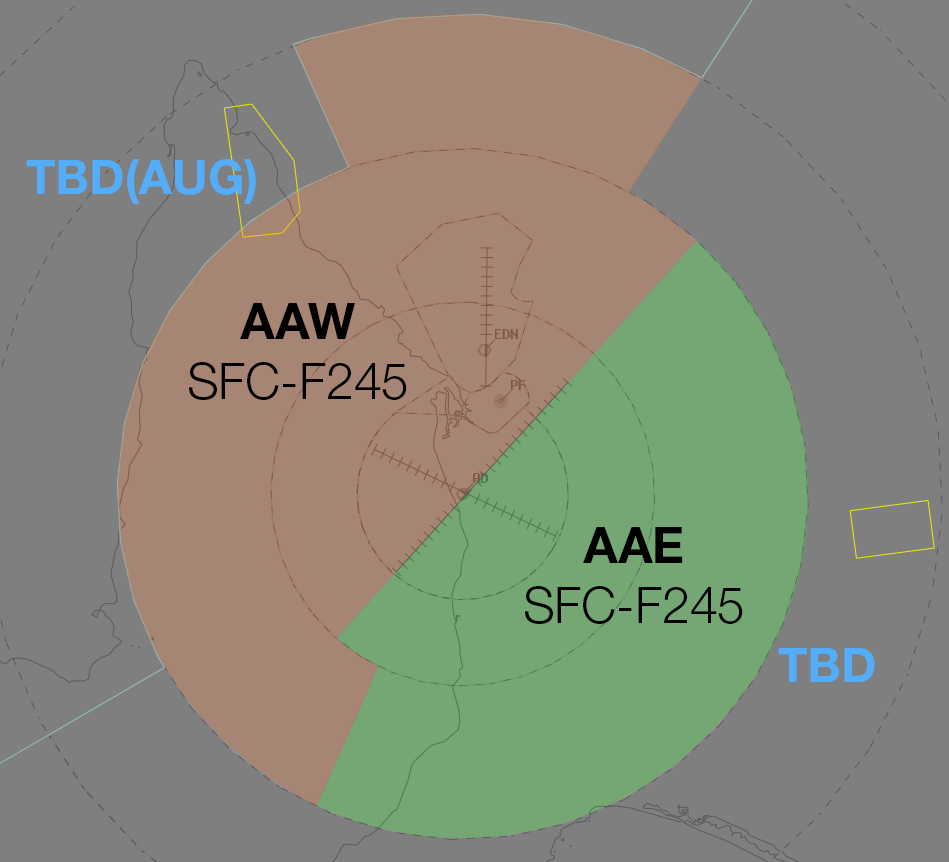
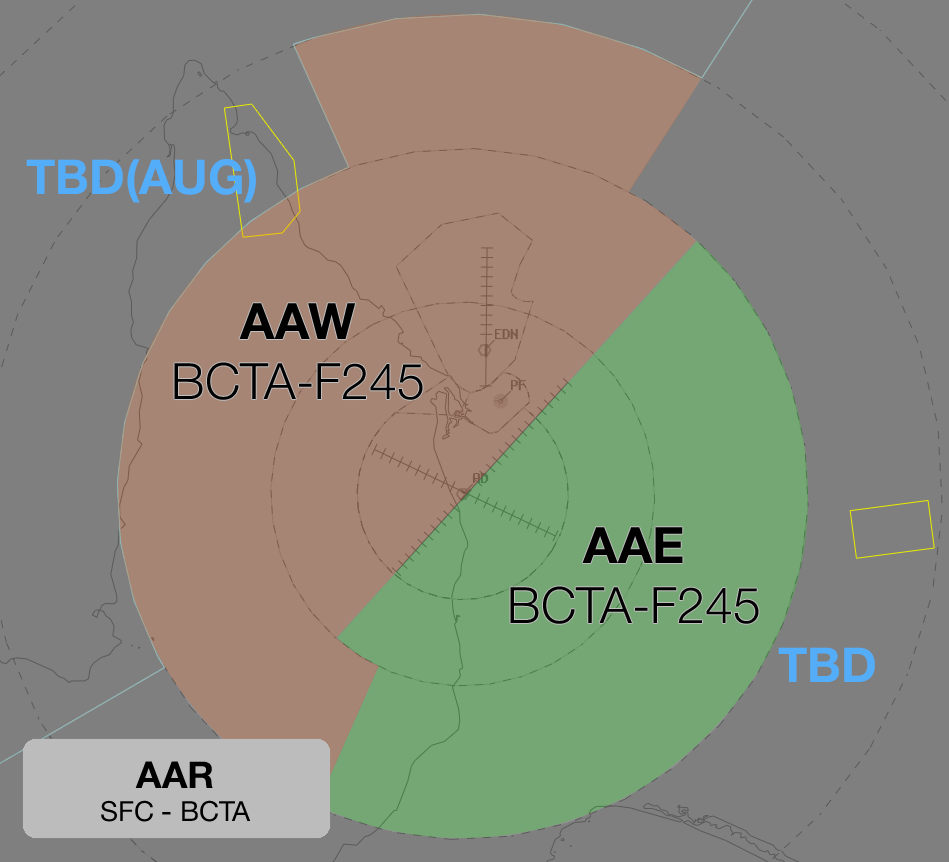
Radar positions

diff --git a/docs/terminal/sydney.md b/docs/terminal/sydney.md
@@ -14,14 +14,12 @@
 | <span class="indented">Sydney Departures North :material-information-outline:{ title="Non-standard position"}   | SDN | Sydney Departures | 123.000 | SY-N_DEP |
 | <span class="indented">Sydney Director West :material-information-outline:{ title="Non-standard position"}      | SFW | Sydney Director   | 126.100 | SY-D_APP |
 | <span class="indented">Sydney Director East :material-information-outline:{ title="Non-standard position"}      | SFE | Sydney Director   | 125.300 | SY-DE_APP|
-| <span class="indented">Sydney Radar :material-information-outline:{ title="Non-standard position"} :octicons-checklist-24:{ title="Non-standard position"} | SRI | Sydney Centre  | 124.550 | SY-C_DEP |
-| <span class="indented">Sydney Flow :material-information-outline:{ title="Non-standard position"}               | SFL |                   |          | SY_FMP  |
+| <span class="indented">Sydney Radar :material-information-outline:{ title="Non-standard position"}              | SRI | Sydney Centre     | 124.550 | SY-R_DEP |
+| <span class="indented">Sydney Flow :material-information-outline:{ title="Non-standard position"}               | SFL |                   |         | SY_FMP   |
 
 !!! abstract "Non-Standard Positions"
     :material-information-outline: Non-standard positions may only be used in accordance with [VATPAC Air Traffic Services Policy](https://vatpac.org/publications/policies){target=new}.  
     Approval must be sought from the **bolded parent position** prior to opening a Non-Standard Position, unless [NOTAMs](https://vatpac.org/publications/notam){target=new} indicate otherwise (eg, for events).
-
-    :octicons-checklist-24: [Additional requirements](#airspace-structural-arrangements) must be met prior to opening SRI as a stand-alone position.
 
 ## Airspace
 The Vertical limits of the SY TCU are `SFC` to `F285`.  

diff --git a/docs/terminal/adelaide.md b/docs/terminal/adelaide.md
@@ -9,8 +9,9 @@
 | Name                          | ID      | Callsign                | Frequency   | Login ID      |
 | ----------------------------- | ------- | ----------------------- | ----------- | ------------- |
 | **Adelaide Approach East**    | **AAE** | **Adelaide Approach**   | **118.200** | **AD_APP**    |
-| <span class="indented">Adelaide Approach West :material-information-outline:{ title="Non-standard position"}  | AAW | Adelaide Approach  | 124.200  | AD-W_APP |
-| <span class="indented">Adelaide Flow :material-information-outline:{ title="Non-standard position"}           | AFL |                    |          | AD_FMP   |
+| <span class="indented">Adelaide Approach West :material-information-outline:{ title="Non-standard position"}  | AAW | Adelaide Approach  | 124.200 | AD-W_APP |
+| <span class="indented">Adelaide Radar :material-information-outline:{ title="Non-standard position"}          | AAR | Adelaide Approach  | 130.450 | AD-R_DEP |
+| <span class="indented">Adelaide Flow :material-information-outline:{ title="Non-standard position"}           | AFL |                    |         | AD_FMP   |
 
 !!! abstract "Non-Standard Positions"
     :material-information-outline: Non-standard positions may only be used in accordance with [VATPAC Air Traffic Services Policy](https://vatpac.org/publications/policies){target=new}.  

diff --git a/docs/terminal/perth.md b/docs/terminal/perth.md
@@ -7,8 +7,9 @@
 | Name                          | ID      | Callsign                | Frequency   | Login ID      |
 | ----------------------------- | ------- | ----------------------- | ----------- | ------------- |
 | **Perth Approach**            | **PHA** | **Perth Approach**      | **123.600** | **PH_APP**    | 
-| <span class="indented">Perth Departures :material-information-outline:{ title="Non-standard position"}  | PHD | Perth Departures | 118.700 | PH_DEP |
-| <span class="indented">Perth Flow :material-information-outline:{ title="Non-standard position"}        | PFL |                  |         | PH_FMP |
+| <span class="indented">Perth Departures :material-information-outline:{ title="Non-standard position"}  | PHD | Perth Departures | 118.700 | PH_DEP   |
+| <span class="indented">Perth Radar :material-information-outline:{ title="Non-standard position"}       | PHR | Perth Centre     | 135.250 | PH-R_DEP |
+| <span class="indented">Perth Flow :material-information-outline:{ title="Non-standard position"}        | PFL |                  |         | PH_FMP   |
 
 !!! abstract "Non-Standard Positions"
     :material-information-outline: Non-standard positions may only be used in accordance with [VATPAC Air Traffic Services Policy](https://vatpac.org/publications/policies){target=new}.  

diff --git a/docs/terminal/brisbane.md b/docs/terminal/brisbane.md
@@ -13,6 +13,7 @@
 | <span class="indented">Brisbane Departures North :material-information-outline:{ title="Non-standard position"} | BDN | Brisbane Departures | 133.450 | BN_DEP   |
 | <span class="indented">Brisbane Departures South :material-information-outline:{ title="Non-standard position"} | BDS | Brisbane Departures | 118.450 | BN-S_DEP |
 | <span class="indented">Gold Coast Approach :material-information-outline:{ title="Non-standard position"}       | BAC | Brisbane Approach   | 123.500 | BN-C_APP |
+| <span class="indented">Brisbane Radar :material-information-outline:{ title="Non-standard position"}            | SHN | Brisbane Centre     | 119.500 | BN-R_DEP |
 | <span class="indented">Brisbane Flow :material-information-outline:{ title="Non-standard position"}             | BFL |                     |         | BN_FMP   |
 
 !!! abstract "Non-Standard Positions"
